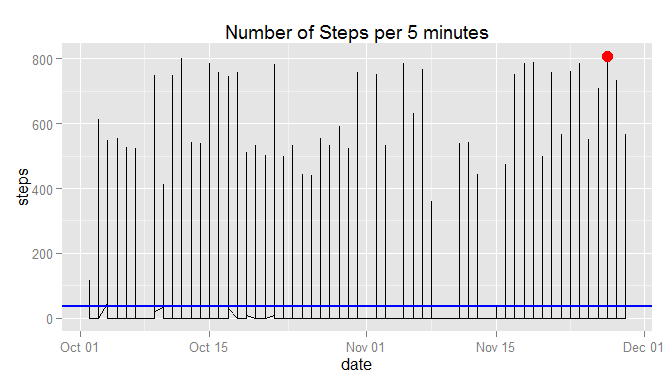
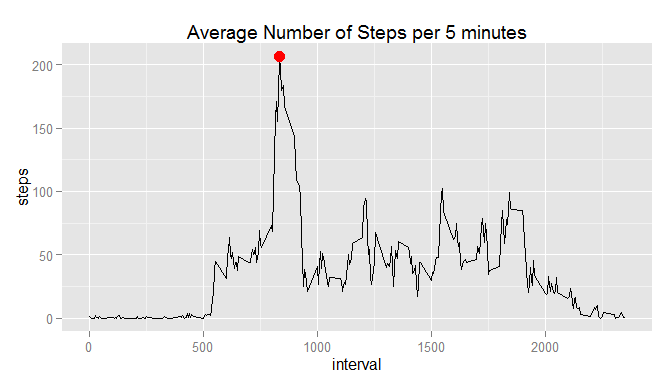
Answered to all questions

diff --git a/PA1_template.html b/PA1_template.html
@@ -55,16 +55,23 @@ if (window.hljs && document.readyState && document.readyState === "complete") {
 </div>
 
 
+<p>In this report we will analyze data collected by a personal activity monitoring device. The data consists of two months of data from an anonymous individual collected during the months of October and November, 2012 and include the number of steps taken in 5 minute intervals each day.</p>
 <div id="loading-and-preprocessing-the-data" class="section level2">
 <h2>Loading and preprocessing the data</h2>
-<p>The data to be analyzed is included in the archive activity.zip.The full data set is loaded and a copy of it is created without the missing values = NA. Both datasets, with and without missing values, are needed to answer the following questions.</p>
+<p>The dataset to be analyzed is stored in the archive activity.zip. and includes 17,568 obvervations with the following variables:</p>
+<ul>
+<li>steps: Number of steps taking in a 5-minute interval (missing values are coded as NA)</li>
+<li>date: The date on which the measurement was taken in YYYY-MM-DD format</li>
+<li>interval: Identifier for the 5-minute interval in which measurement was taken</li>
+</ul>
+<p>In this study we will basically analyze data without NA.</p>
 <pre class="r"><code>if(!file.exists(&quot;activity.zip&quot;)){
         stop(&quot;activity.zip file not present&quot;)
 }
 unzip(&quot;activity.zip&quot;)
 All_Steps &lt;- read.csv(&quot;activity.csv&quot;, colClasses = c(&quot;integer&quot;, &quot;Date&quot;, &quot;integer&quot;))
 OK_Steps &lt;- na.omit(All_Steps)</code></pre>
-<p>As an example the first rows of the cleaned data frame are as follows:</p>
+<p>As an example the first rows of the cleaned data frame (with no NA) are as follows:</p>
 <pre class="r"><code>OK_Steps[1:5,]</code></pre>
 <pre><code>##     steps       date interval
 ## 289     0 2012-10-02        0
@@ -91,24 +98,24 @@ plot(g)</code></pre>
 </div>
 <div id="what-is-the-average-daily-activity-pattern" class="section level2">
 <h2>What is the average daily activity pattern?</h2>
-<p>Moving to the 5 minutes data granularity, the activity pattern over the 2 months observation period, is reported in the following graph.</p>
-<pre class="r"><code>Mean_Step_5 &lt;- as.integer(mean(OK_Steps$steps))
-iMax_Step_5 &lt;- which.max(OK_Steps$steps)
-Max_Step &lt;- OK_Steps[iMax_Step_5,]
+<p>Let’s evaluate the daily activity pattern averaged over all the days</p>
+<pre class="r"><code>Pat_Steps &lt;- with(OK_Steps,aggregate(steps, by=list(interval), FUN=&quot;mean&quot;))
+names(Pat_Steps) &lt;- c(&quot;interval&quot;, &quot;steps&quot;)
+iMax_Step &lt;- which.max(Pat_Steps$steps)
+Max_Step &lt;- Pat_Steps[iMax_Step,]
 
-g &lt;- ggplot(OK_Steps, aes(date,steps)) + geom_line()
-g &lt;- g + labs(title = &quot;Number of Steps per 5 minutes&quot;)
-g &lt;- g + geom_hline(yintercept = Mean_Step_5, color = &quot;blue&quot;, size = 1)
-g &lt;- g + geom_point(data=Max_Step, aes(date,steps), color = &quot;red&quot;, size = 4)
+g &lt;- ggplot(Pat_Steps, aes(interval,steps)) + geom_line()
+g &lt;- g + labs(title = &quot;Average Number of Steps per 5 minutes&quot;)
+g &lt;- g + geom_point(data=Max_Step, aes(interval,steps), color = &quot;red&quot;, size = 4)
 plot(g)</code></pre>
[1 lines of base64/hex data omitted]
-<p>The picture is also showing in blue the mean = 37 number of steps every 5 minutes over the two months observation period.</p>
-<p>Finally the maximum number of steps made in 5 minutes period is equal to 806 and occurred on the 2012-11-27 at time interval 615, corresponding to the red point in the previous figure.</p>
[1 lines of base64/hex data omitted]
+<p>The maximum number of steps made in 5 minutes period, on average across all observation period, is equal to 206.1698113 and it is the interval number 835, corresponding to the red point in the previous figure.</p>
 </div>
 <div id="imputing-missing-values" class="section level2">
 <h2>Imputing missing values</h2>
 <p>Now let’s evalute the impact of missing values on previously calculated mean and median per day.</p>
-<pre class="r"><code>iNA_Steps &lt;- (is.na(All_Steps$steps))
+<pre class="r"><code>Mean_Step_5 &lt;- as.integer(mean(OK_Steps$steps))
+iNA_Steps &lt;- (is.na(All_Steps$steps))
 NA_Steps &lt;- sum(iNA_Steps)
 Full_Steps &lt;- All_Steps
 Full_Steps[iNA_Steps,&quot;steps&quot;] &lt;- Mean_Step_5
@@ -129,6 +136,23 @@ plot(g)</code></pre>
 </div>
 <div id="are-there-differences-in-activity-patterns-between-weekdays-and-weekends" class="section level2">
 <h2>Are there differences in activity patterns between weekdays and weekends?</h2>
+<p>Let’s analyze the patterns splitting number of steps made during weekdays and during weekends. We will be using the original data without missing values.</p>
+<pre class="r"><code>Week_Steps &lt;- OK_Steps
+iwday &lt;- weekdays(OK_Steps[,&quot;date&quot;]) %in% c(&quot;Monday&quot;, &quot;Tuesday&quot;, &quot;Wednesday&quot;, 
+                                              &quot;Thursday&quot;, &quot;Friday&quot;)
+Week_Steps[iwday,&quot;Daytype&quot;] &lt;- &quot;weekday&quot;
+Week_Steps[!iwday,&quot;Daytype&quot;] &lt;- &quot;weekend&quot;
+Week_Steps$Daytype &lt;- as.factor(Week_Steps$Daytype)
+
+Pat_WSteps &lt;- with(Week_Steps,aggregate(steps, by=list(interval,Daytype), FUN=&quot;mean&quot;))
+names(Pat_WSteps) &lt;- c(&quot;interval&quot;, &quot;Daytype&quot;, &quot;steps&quot;)
+
+
+g &lt;- ggplot(Pat_WSteps, aes(interval,steps)) + geom_line() + facet_grid(Daytype ~ .)
+g &lt;- g + labs(title = &quot;Activity Pattern Analysis&quot;, y = &quot;Number of steps&quot;)
+print(g)</code></pre>
[1 lines of base64/hex data omitted]
+<p>The activity pattern recorded during weekday is different from the one recording during weekend.</p>
 </div>
 
 

diff --git a/PA1_template.md b/PA1_template.md
@@ -2,8 +2,16 @@
 
 
 
+In this report we will analyze data collected by a personal activity monitoring device. The data consists of two months of data from an anonymous individual collected during the months of October and November, 2012 and include the number of steps taken in 5 minute intervals each day.
+
 ## Loading and preprocessing the data
-The data to be analyzed is included in the archive activity.zip.The full data set is loaded and a copy of it is created without the missing values = NA. Both datasets, with and without missing values, are needed to answer the following questions.
+The dataset to be analyzed is stored in the archive activity.zip. and includes 17,568 obvervations with the following variables:
+
+- steps: Number of steps taking in a 5-minute interval (missing values are coded as NA)
+- date: The date on which the measurement was taken in YYYY-MM-DD format
+- interval: Identifier for the 5-minute interval in which measurement was taken
+
+In this study we will basically analyze data without NA.  
 
 
 ```r
@@ -15,7 +23,7 @@ All_Steps <- read.csv("activity.csv", colClasses = c("integer", "Date", "integer
 OK_Steps <- na.omit(All_Steps)
 ```
 
-As an example the first rows of the cleaned data frame are as follows:
+As an example the first rows of the cleaned data frame (with no NA) are as follows:
 
 
 ```r
@@ -59,26 +67,25 @@ The picture is also showing in blue the median = 10765 and mean = 10766 number o
 
 
 ## What is the average daily activity pattern?
-Moving to the 5 minutes data granularity, the activity pattern over the 2 months observation period, is reported in the following graph.
+Let's evaluate the daily activity pattern averaged over all the days
 
 
 ```r
-Mean_Step_5 <- as.integer(mean(OK_Steps$steps))
-iMax_Step_5 <- which.max(OK_Steps$steps)
-Max_Step <- OK_Steps[iMax_Step_5,]
+Pat_Steps <- with(OK_Steps,aggregate(steps, by=list(interval), FUN="mean"))
+names(Pat_Steps) <- c("interval", "steps")
+iMax_Step <- which.max(Pat_Steps$steps)
+Max_Step <- Pat_Steps[iMax_Step,]
 
-g <- ggplot(OK_Steps, aes(date,steps)) + geom_line()
-g <- g + labs(title = "Number of Steps per 5 minutes")
-g <- g + geom_hline(yintercept = Mean_Step_5, color = "blue", size = 1)
-g <- g + geom_point(data=Max_Step, aes(date,steps), color = "red", size = 4)
+g <- ggplot(Pat_Steps, aes(interval,steps)) + geom_line()
+g <- g + labs(title = "Average Number of Steps per 5 minutes")
+g <- g + geom_point(data=Max_Step, aes(interval,steps), color = "red", size = 4)
 plot(g)
 ```
 
 ![](PA1_template_files/figure-html/Steps_5_min-1.png) 
+ 
 
-The picture is also showing in blue the mean = 37 number of steps every 5 minutes over the two months observation period. 
-
-Finally the maximum number of steps made in 5 minutes period is equal to 806 and occurred on the 2012-11-27 at time interval 615, corresponding to the red point in the previous figure.
+The maximum number of steps made in 5 minutes period, on average across all observation period, is equal to 206.1698113 and it is the interval number 835, corresponding to the red point in the previous figure.
 
 
 
@@ -88,6 +95,7 @@ Now let's evalute the impact of missing values on previously calculated mean and
 
 
 ```r
+Mean_Step_5 <- as.integer(mean(OK_Steps$steps))
 iNA_Steps <- (is.na(All_Steps$steps))
 NA_Steps <- sum(iNA_Steps)
 Full_Steps <- All_Steps
@@ -114,7 +122,30 @@ The mean and median steps per day calculated with imputed missing values, are eq
 THe impact of the imputed missing values is to decrease both mean value from 10766 to 10751 and median value from 10765 to 10656.
 
 
-
-
-
 ## Are there differences in activity patterns between weekdays and weekends?
+Let's analyze the patterns splitting number of steps made during weekdays and during weekends.
+We will be using the original data without missing values.
+
+
+```r
+Week_Steps <- OK_Steps
+iwday <- weekdays(OK_Steps[,"date"]) %in% c("Monday", "Tuesday", "Wednesday", 
+                                              "Thursday", "Friday")
+Week_Steps[iwday,"Daytype"] <- "weekday"
+Week_Steps[!iwday,"Daytype"] <- "weekend"
+Week_Steps$Daytype <- as.factor(Week_Steps$Daytype)
+
+Pat_WSteps <- with(Week_Steps,aggregate(steps, by=list(interval,Daytype), FUN="mean"))
+names(Pat_WSteps) <- c("interval", "Daytype", "steps")
+
+
+g <- ggplot(Pat_WSteps, aes(interval,steps)) + geom_line() + facet_grid(Daytype ~ .)
+g <- g + labs(title = "Activity Pattern Analysis", y = "Number of steps")
+print(g)
+```
+
+![](PA1_template_files/figure-html/Wekday_end-1.png) 
+
+The activity pattern recorded during weekday is different from the one recording during weekend.
+
+
